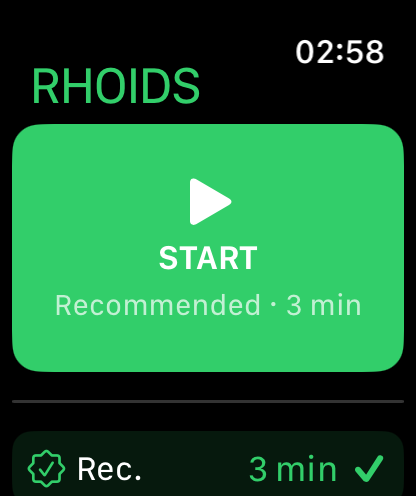
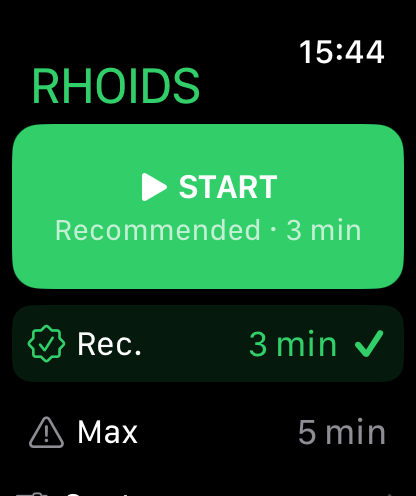
fix: clean up Apple Watch layouts and refresh Watch screenshots
Keep the running ring clear of the system clock, move Stop, Done and Start into the bottom bar, wrap the Time's Up quip instead of truncating it, and shorten the Home hero so presets show. Add DEBUG-only launch hooks for screenshot capture. Replace the four Watch masters with captures from the current build on Apple Watch Series 12 (46mm), watchOS 27.2.

diff --git a/Sources/RHOIDSWatch/Features/Timer/WatchTimerView.swift b/Sources/RHOIDSWatch/Features/Timer/WatchTimerView.swift
@@ -28,6 +28,21 @@ struct WatchTimerView: View {
             }
         }
         .navigationBarBackButtonHidden(true)
+        .toolbar {
+            // Native bottom bar keeps the button clear of the screen edge.
+            // Hidden in Always On (W-AO-01), but the item stays in place so
+            // the ring does not shift when the screen dims (W-AO-05).
+            ToolbarItem(placement: .bottomBar) {
+                if viewModel.isComplete {
+                    doneButton
+                } else {
+                    stopButton
+                        .opacity(isLuminanceReduced ? 0 : 1)
+                        .allowsHitTesting(!isLuminanceReduced)
+                        .accessibilityHidden(isLuminanceReduced)
+                }
+            }
+        }
         .onChange(of: viewModel.isComplete) { _, complete in
             if complete {
                 // Stay on screen briefly then allow dismiss
@@ -43,7 +58,7 @@ struct WatchTimerView: View {
     // MARK: - Timer Content
 
     private var timerContent: some View {
-        VStack(spacing: 8) {
+        Group {
             if viewModel.isComplete {
                 completionContent
             } else {
@@ -56,9 +71,7 @@ struct WatchTimerView: View {
     // MARK: - Active Timer
 
     private var activeTimerContent: some View {
-        VStack(spacing: 8) {
-            Spacer(minLength: 0)
-
+        VStack(spacing: 4) {
             // Ring + Countdown (W-AO-01: dims in AOD)
             WatchRingView(
                 progress: viewModel.progress,
@@ -72,24 +85,15 @@ struct WatchTimerView: View {
                     .font(.caption)
                     .foregroundStyle(.secondary)
             }
-
-            Spacer(minLength: 0)
-
-            // Stop button - hidden in Always On (W-AO-01)
-            if !isLuminanceReduced {
-                stopButton
-            }
         }
     }
 
     // MARK: - Completion
 
     private var completionContent: some View {
-        VStack(spacing: 12) {
-            Spacer(minLength: 0)
-
+        VStack(spacing: 6) {
             Image(systemName: "checkmark.circle.fill")
-                .font(.system(size: 44))
+                .font(.system(size: 36))
                 .foregroundStyle(.brand)
                 .accessibilityHidden(true)
 
@@ -98,21 +102,23 @@ struct WatchTimerView: View {
                 .accessibilityAddTraits(.isHeader)
 
             Text(viewModel.completionQuip)
-                .font(.caption)
+                .font(.footnote)
                 .foregroundStyle(.secondary)
                 .multilineTextAlignment(.center)
-                .lineLimit(2)
-
-            Spacer(minLength: 0)
-
-            Button(action: { dismiss() }) {
-                Text("Done")
-                    .font(.headline)
-                    .frame(maxWidth: .infinity)
-            }
-            .buttonStyle(.borderedProminent)
-            .tint(.brand)
+                .lineLimit(3)
+                .minimumScaleFactor(0.85)
+                .fixedSize(horizontal: false, vertical: true)
         }
+    }
+
+    private var doneButton: some View {
+        Button(action: { dismiss() }) {
+            Text("Done")
+                .font(.headline)
+                .frame(maxWidth: .infinity)
+        }
+        .buttonStyle(.borderedProminent)
+        .tint(.brand)
     }
 
     // MARK: - Stop Button
@@ -150,7 +156,7 @@ struct WatchRingView: View {
             Circle()
                 .stroke(
                     Color(.darkGray).opacity(isLuminanceReduced ? 0.2 : 0.3),
-                    lineWidth: 8
+                    lineWidth: 7
                 )
 
             // Progress ring - trims from the leading edge so it drains clockwise
@@ -158,7 +164,7 @@ struct WatchRingView: View {
                 .trim(from: progress, to: 1)
                 .stroke(
                     Color.accentColor.opacity(isLuminanceReduced ? 0.3 : 1.0),
-                    style: StrokeStyle(lineWidth: 8, lineCap: .round)
+                    style: StrokeStyle(lineWidth: 7, lineCap: .round)
                 )
                 .rotationEffect(.degrees(-90))
                 .animation(
@@ -171,15 +177,16 @@ struct WatchRingView: View {
                 if endDate > Date() {
                     // End date is in the future - show live countdown
                     Text(timerInterval: Date()...endDate, countsDown: true)
-                        .font(.system(size: 32, weight: .light, design: .rounded))
+                        .font(.system(size: 30, weight: .light, design: .rounded))
                         .monospacedDigit()
+                        .padding(.horizontal, 12)
                         .minimumScaleFactor(0.6)
                         .lineLimit(1)
                         .contentTransition(.numericText())
                 } else {
                     // End date is in the past or invalid - show 0:00
                     Text("0:00")
-                        .font(.system(size: 32, weight: .light, design: .rounded))
+                        .font(.system(size: 30, weight: .light, design: .rounded))
                         .monospacedDigit()
                 }
 
@@ -191,7 +198,8 @@ struct WatchRingView: View {
                 }
             }
         }
-        .frame(width: 130, height: 130)
+        .aspectRatio(1, contentMode: .fit)
+        .containerRelativeFrame(.horizontal) { width, _ in width * 0.5 }
         .accessibilityElement(children: .ignore)
         .accessibilityLabel("Timer progress")
         .accessibilityValue("\(Int((1 - progress) * 100)) percent remaining")

diff --git a/Sources/RHOIDSWatch/Features/Home/WatchHomeView.swift b/Sources/RHOIDSWatch/Features/Home/WatchHomeView.swift
@@ -14,6 +14,9 @@ struct WatchHomeView: View {
     @State private var selectedPreset: PresetTimer = .recommended
     @State private var timerVM: WatchTimerViewModel?
     @State private var showCustomPicker = false
+#if DEBUG
+    @State private var demoLaunched = false
+#endif
 
     @AppStorage(PresetPreferences.defaultPresetKey) private var defaultPresetID = ""
     @AppStorage(UserPreferences.hapticsEnabledKey) private var hapticsEnabled = true
@@ -25,11 +28,8 @@ struct WatchHomeView: View {
     var body: some View {
         NavigationStack {
             ScrollView {
-                VStack(spacing: 10) {
+                VStack(spacing: 8) {
                     heroStartButton
-
-                    Divider()
-                        .padding(.vertical, 4)
 
                     presetList
 
@@ -60,8 +60,20 @@ struct WatchHomeView: View {
 #if DEBUG
             // Screenshot automation: start the selected preset on launch.
             // Enable with SIMCTL_CHILD_RHOIDS_DEMO_TIMER=1 xcrun simctl launch …
-            if ProcessInfo.processInfo.environment["RHOIDS_DEMO_TIMER"] == "1" {
-                startTimer()
+            let env = ProcessInfo.processInfo.environment
+            guard !demoLaunched else { return }
+            demoLaunched = true
+            // Wait for the first frame so the push does not block scene activation.
+            Task { @MainActor in
+                try? await Task.sleep(for: .seconds(2))
+                if let seconds = env["RHOIDS_DEMO_SECONDS"].flatMap(TimeInterval.init) {
+                    // A short run so the Time's Up screen can be captured.
+                    startTimer(duration: seconds)
+                } else if env["RHOIDS_DEMO_TIMER"] == "1" {
+                    startTimer()
+                } else if env["RHOIDS_DEMO_SCREEN"] == "custom" {
+                    showCustomPicker = true
+                }
             }
 #endif
         }
@@ -71,11 +83,8 @@ struct WatchHomeView: View {
 
     private var heroStartButton: some View {
         Button(action: { startTimer() }) {
-            VStack(spacing: 4) {
-                Image(systemName: "play.fill")
-                    .font(.title2)
-
-                Text("START")
+            VStack(spacing: 2) {
+                Label("START", systemImage: "play.fill")
                     .font(.headline)
 
                 if selectedPreset.duration > 0 {
@@ -85,7 +94,7 @@ struct WatchHomeView: View {
                 }
             }
             .frame(maxWidth: .infinity)
-            .padding(.vertical, 12)
+            .padding(.vertical, 8)
         }
         .buttonStyle(.borderedProminent)
         .buttonBorderShape(.roundedRectangle(radius: 14))
@@ -133,8 +142,8 @@ struct WatchHomeView: View {
 
     // MARK: - Actions
 
-    private func startTimer() {
-        let duration = selectedPreset.duration
+    private func startTimer(duration: TimeInterval? = nil) {
+        let duration = duration ?? selectedPreset.duration
         guard duration > 0 else { return }
 
         let endDate = Date().addingTimeInterval(duration)

diff --git a/Sources/RHOIDSWatch/Features/CustomDuration/WatchCustomDurationView.swift b/Sources/RHOIDSWatch/Features/CustomDuration/WatchCustomDurationView.swift
@@ -19,15 +19,9 @@ struct WatchCustomDurationView: View {
     @Environment(\.accessibilityReduceMotion) private var reduceMotion
 
     var body: some View {
-        VStack(spacing: 12) {
-            Spacer(minLength: 0)
-
-            Text("Set Duration")
-                .font(.caption)
-                .foregroundStyle(.secondary)
-
+        VStack(spacing: 4) {
             Text("\(Int(minutes))")
-                .font(.system(size: 52, weight: .light, design: .rounded))
+                .font(.system(size: 56, weight: .light, design: .rounded))
                 .monospacedDigit()
                 .contentTransition(.numericText())
                 .animation(reduceMotion ? nil : .snappy(duration: 0.15), value: Int(minutes))
@@ -35,18 +29,21 @@ struct WatchCustomDurationView: View {
             Text(Int(minutes) == 1 ? "minute" : "minutes")
                 .font(.body)
                 .foregroundStyle(.secondary)
-
-            Spacer(minLength: 0)
-
-            Button(action: { startCustomTimer() }) {
-                Label("Start", systemImage: "play.fill")
-                    .font(.headline)
-                    .frame(maxWidth: .infinity)
+        }
+        .frame(maxWidth: .infinity, maxHeight: .infinity)
+        .navigationTitle("Set Duration")
+        .toolbar {
+            ToolbarItem(placement: .bottomBar) {
+                Button(action: { startCustomTimer() }) {
+                    Label("Start", systemImage: "play.fill")
+                        .font(.headline)
+                        .frame(maxWidth: .infinity)
+                }
+                .buttonStyle(.borderedProminent)
+                .tint(.brand)
+                .accessibilityLabel("Start \(Int(minutes)) minute timer")
+                .accessibilityHint("Double-tap to begin countdown")
             }
-            .buttonStyle(.borderedProminent)
-            .tint(.brand)
-            .accessibilityLabel("Start \(Int(minutes)) minute timer")
-            .accessibilityHint("Double-tap to begin countdown")
         }
         .focused($isCrownFocused)
         .digitalCrownRotation(

diff --git a/Sources/RHOIDSWatch/Features/Timer/WatchTimerViewModel.swift b/Sources/RHOIDSWatch/Features/Timer/WatchTimerViewModel.swift
@@ -77,6 +77,13 @@ final class WatchTimerViewModel {
             case .completed(_, _):
                 isComplete = true
                 completionQuip = TimerQuip.randomCompletion().body
+#if DEBUG
+                // Screenshot automation: pin the quip so captures are repeatable.
+                if let index = ProcessInfo.processInfo.environment["RHOIDS_DEMO_QUIP"].flatMap(Int.init),
+                   TimerQuip.completionQuips.indices.contains(index) {
+                    completionQuip = TimerQuip.completionQuips[index].body
+                }
+#endif
 
             case .cancelled:
                 isCancelled = true
